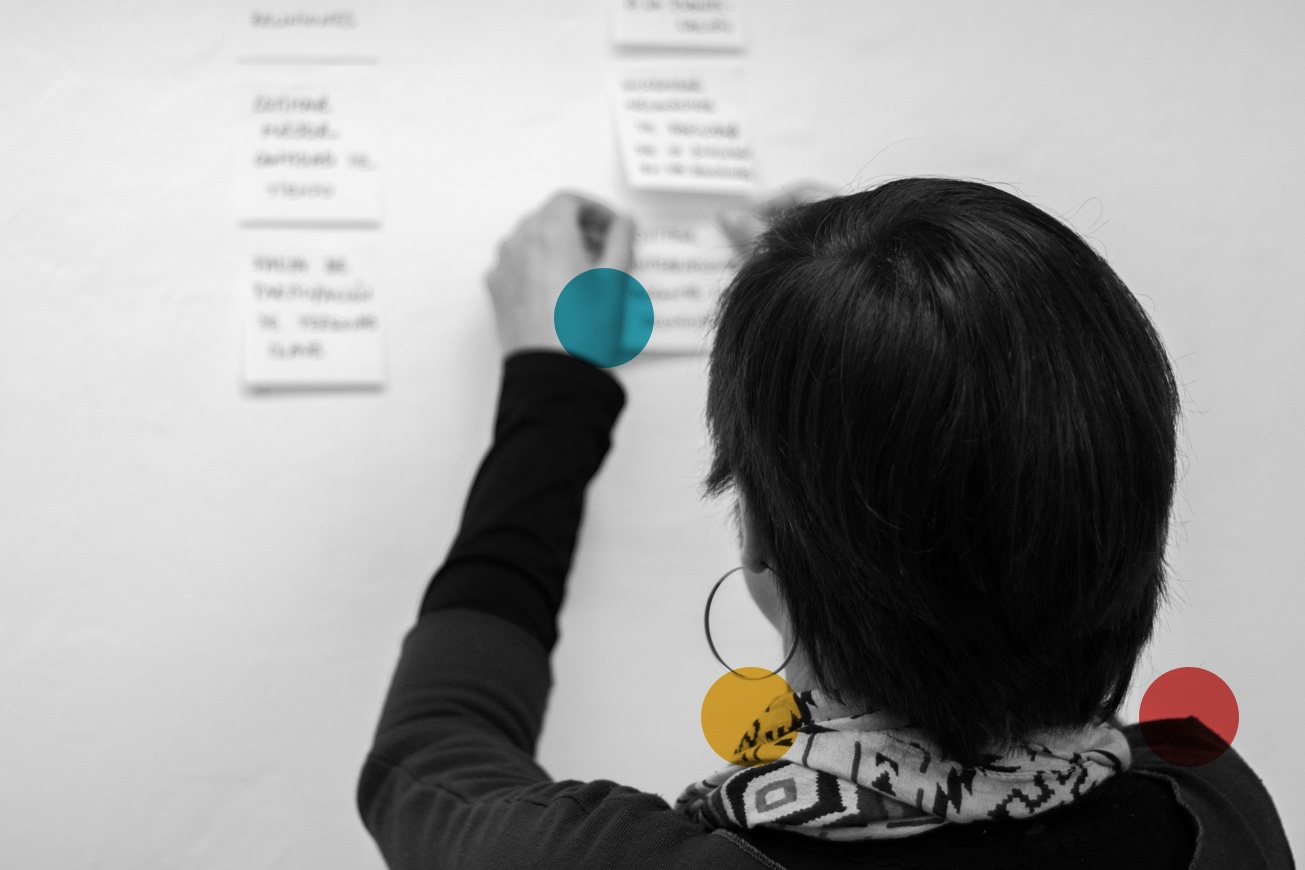
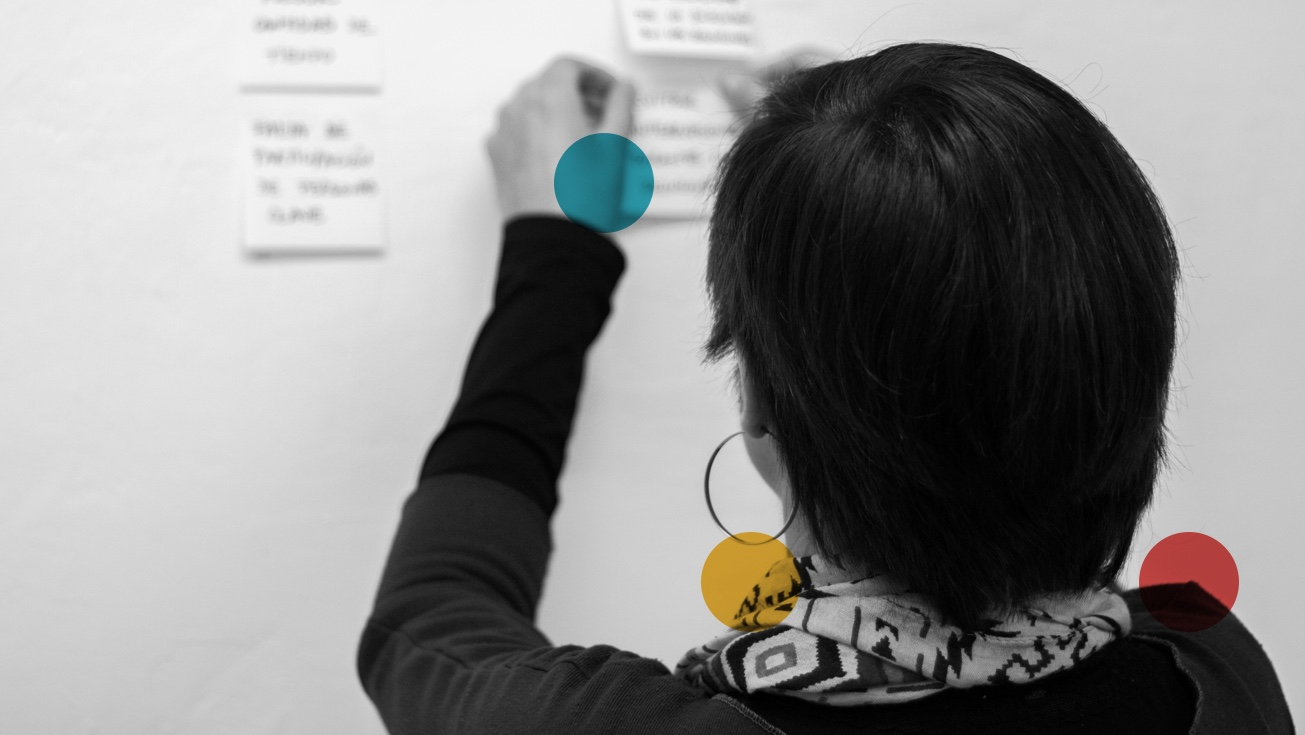
Welcome

diff --git a/_sass/_base.scss b/_sass/_base.scss
@@ -1,3 +1,20 @@
+body {
+  -webkit-font-smoothing: antialiased;
+  -webkit-text-shadow: rgba(0,0,0,.01) 0 0 1px;
+  text-shadow: rgba(0,0,0,.01) 0 0 1px;
+  font-family: $base-font-family;
+  font-size: $base-font-size;
+  line-height: $base-line-height;
+  font-weight: 400;
+  color: black;
+  -webkit-text-size-adjust: 100%;
+}
+
+mark {
+    background-color: black;
+    color: white;
+}
+
 .navbar-home{
   padding: 20px 15px 20px 15px;
   min-height: 110px;
@@ -6,12 +23,58 @@
   position: absolute;
   top: 0;
   width: 100%;
+  .navbar-nav>li>mark>a{
+    font-family: 'Montserrat Alternates', sans-serif;
+    color: white;
+    text-transform: uppercase;
+    text-decoration: none;
+    font-size: 14px;
+  }
+  .navbar-nav>li{
+    margin: 0 5px 0 5px;
+  }
+  .navbar-right{
+    margin-top: 20px;
+  }
+  .sub-brand{
+    a{
+      color: black;
+      text-decoration: none;
+      font-size: 14px;
+    }
+  }
 }
+
+
 
 .jumbotron{
   padding: 0;
   background: url(../img/welcome.jpg);
-  min-height: 800px;
+  min-height: 900px;
   background-repeat: no-repeat;
   background-size: cover;
+}
+
+@media (max-width: 1500px) {
+  .jumbotron{
+    min-height: 780px;
+  }
+}
+
+@media (max-width: 1200px) {
+  .jumbotron{
+    min-height: 700px;
+  }
+}
+
+@media (max-width: 992px) {
+  .jumbotron{
+    min-height: 600px;
+  }
+}
+
+@media (max-width: 768px) {
+  .jumbotron{
+    min-height: 300px;
+  }
 }

diff --git a/_includes/nav.html b/_includes/nav.html
@@ -16,9 +16,9 @@
 
     <div id="navbar" class="navbar-collapse collapse">
       <ul class="nav navbar-nav navbar-right">
-        <li><a href="{{ site.baseurl }}/metodologia.html">Metodología</a></li>
-        <li><a href="{{ site.baseurl }}/participantes.html">Participantes</a></li>
-        <li><a href="{{ site.baseurl }}/contacto.html">Contacto</a></li>
+        <li><mark><a href="{{ site.baseurl }}/metodologia.html">Metodología</a></mark></li>
+        <li><mark><a href="{{ site.baseurl }}/participantes.html">Participantes</a></mark></li>
+        <li><mark><a href="{{ site.baseurl }}/contacto.html">Contacto</a></mark></li>
       </ul>
     </div><!--/.nav-collapse -->
   </div>

diff --git a/css/main.scss b/css/main.scss
@@ -6,7 +6,7 @@
 
 
 // Our variables
-$base-font-family: "Helvetica Neue", Helvetica, Arial, sans-serif;
+$base-font-family: 'Karla', sans-serif;
 $base-font-size:   16px;
 $base-font-weight: 400;
 $small-font-size:  $base-font-size * 0.875;
